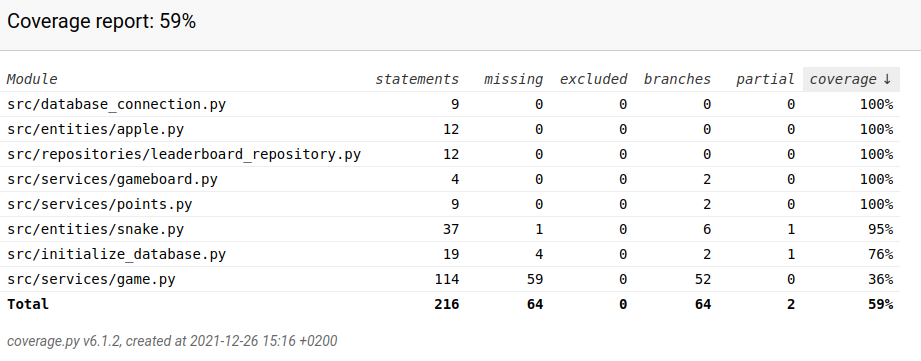
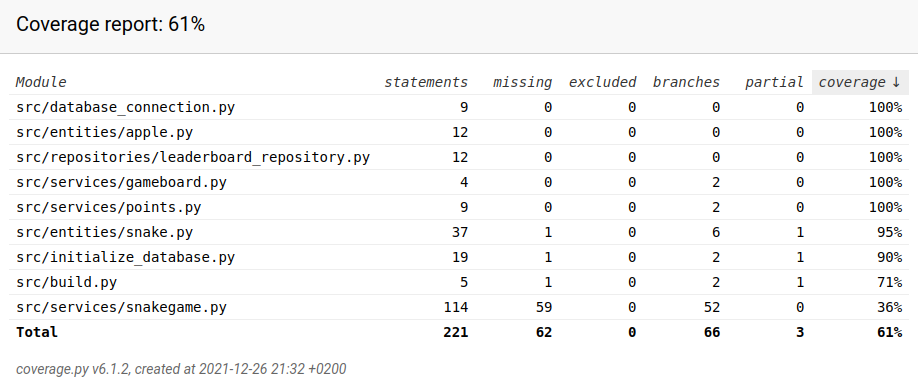
build.py testin lisäys

diff --git a/harjoitustyo/src/tests/conftest.py b/harjoitustyo/src/tests/conftest.py
@@ -1,0 +1,5 @@
+from build import build
+
+
+def pytest_configure():
+    build()

diff --git a/dokumentaatio/testaus.md b/dokumentaatio/testaus.md
@@ -64,7 +64,7 @@ että tietokannasa voidaan sekä hakea tietoja että sinne voidaan lisätä tiet
 
 ### Testauskattavuus
 
-Testauksen haarautumiskattavuus on 59%.
+Testauksen haarautumiskattavuus on 61%.
 
 ![coverage report](./pictures/coverage_report.png)
 
@@ -89,7 +89,7 @@ Sovellusta on testattu eri tietokantojen nimillä sekä erilaisilla syötteillä
 
 ## Sovellukseen jääneet laatuongelmat
 
-Luokan `SnakeGame `ongelmallisesta rakenteesta johtuen testauksen haarautumiskattavuus laskee 94:stä prosentista 59 -prosenttiin.
+Luokan `SnakeGame `ongelmallisesta rakenteesta johtuen testauksen haarautumiskattavuus laskee 94:stä prosentista 61 -prosenttiin.
 
 
 
